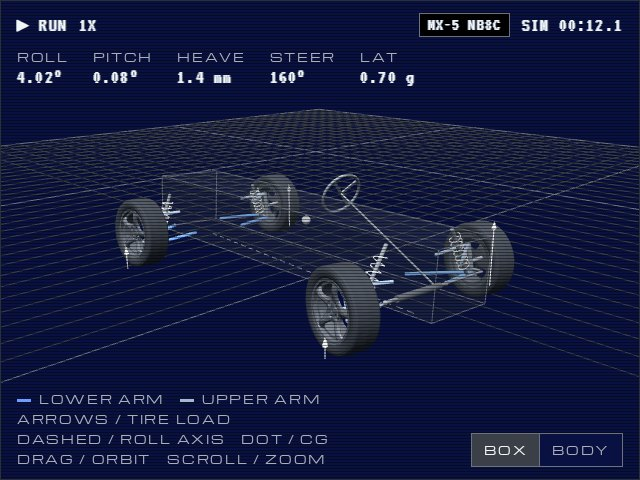
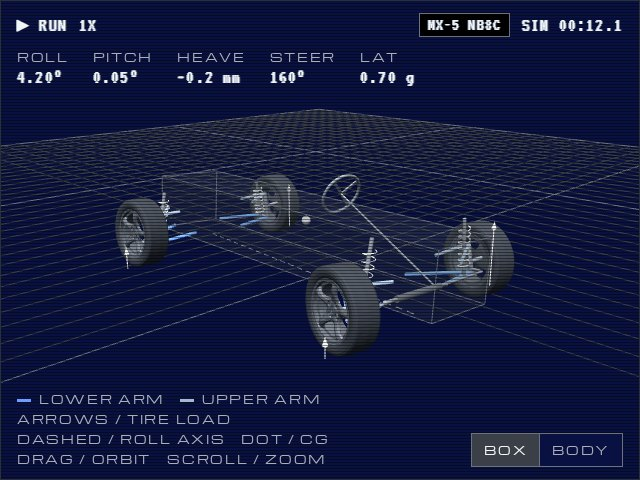
Shock towers from Mazda's body manual: 981 mm front, 984 mm rear
The body manual's underbody dimensions give the shock tower centers:
981 mm apart in front, 984 mm at the rear (the model had 699 and 879).
Rear: the shock's mount on the lower arm is 0.790 of the arm, from a
CAD model of the NA rear suspension (same arms and subframe as the
NB); with it the rear motion ratio comes out 0.732 with no fitting
(measured 0.721). Front: the mount on the lower arm is fitted again
to the 0.686 motion ratio (0.707 of the arm); the 273.5 mm drawing
measurement is dropped because with 981 mm it gives 0.776 and needs
136 mm of travel from a 119 mm shock. Top heights from the KYB
lengths: 640 mm front, 537 mm rear.

Stock: front wheel rate 15.8 -> 13.8 N/mm, ride frequency 1.25 ->
1.17 Hz, roll gradient 5.66 -> 5.91 deg/g.

Claude-Session: https://claude.ai/code/session_01XaYnxNh97FpaRMzgoeqeMp

diff --git a/index.html b/index.html
@@ -233,10 +233,11 @@
         <tr><td>Front pivot heights, lower / upper</td><td>171.8 / 360.6 mm</td><td class="u k">Fitted</td></tr>
         <tr><td>Front upright, ball joint to ball joint</td><td>217.2 mm: the measured heights, leaned to Mazda's 11°39′ kingpin</td><td class="u k">Measured + published</td></tr>
         <tr><td>Hub face position, kingpin offset, tie rod joints</td><td>See the Geometry tab</td><td class="u k">Fitted</td></tr>
-        <tr><td>Front shock, mount on the lower arm</td><td>273.5 mm from the arm's front inner pivot, on the line to the ball joint in top view: 0.810 of the arm's reach, 64 mm inboard of the ball joint</td><td class="u k">Measured</td></tr>
-        <tr><td>Front shock, top mounts</td><td>699 mm apart and 579 mm above ground (305 mm above the wheel center). Worked out from three things: the measured mount on the lower arm, the 0.686 motion ratio, and the replacement shock's length (KYB 341253: 530.1 mm fully extended, eye to stud shoulder, taken to top out at Mazda's 93 mm of droop). The shock is 469 mm long at ride height and leans 31.7°. My own estimates of 880 and 981 mm apart were not used: with the measured lower mount they give motion ratios of 0.753 and 0.776 and need 132 and 136 mm of shock travel.</td><td class="u k">Worked out</td></tr>
-        <tr><td>Rear shock, mounts</td><td>Tops 879 mm apart (as before, not measured) and 520 mm above ground; mount on the lower arm 0.829 of the arm from the inner pivot. Worked out from the 0.721 motion ratio and the replacement shock's length (KYB 341254: 453.9 mm fully extended, taken to top out at Mazda's 96 mm of droop). The shock is 384 mm long at ride height. Before, the model's rear shock was 42 mm too short.</td><td class="u k">Worked out</td></tr>
-        <tr><td>Shock stroke, OEM Showa</td><td>Front: body 342 mm, stroke 119 mm, 463 mm at full length. Rear: body 246 mm, stroke 131 mm, 378 mm. Mazda's wheel strokes use 119.9 mm (front) and 127.6 mm (rear) of shock travel in the model, so the strokes agree with both motion ratios.</td><td class="u k">Check</td></tr>
+        <tr><td>Shock towers, center to center</td><td>Front 981 mm, rear 984 mm (underbody projected dimensions)</td><td class="u k">Published, body manual</td></tr>
+        <tr><td>Shock top mount height</td><td>Front 640 mm above ground (366 mm above the wheel center), rear 537 mm. From the replacement shocks' lengths (KYB 341253: 530.1 mm fully extended; KYB 341254: 453.9 mm; eye to stud shoulder), each taken to top out at Mazda's droop of 93 / 96 mm. The body manual puts the front tower top 537 mm above its datum line, which then sits 103 mm above the ground.</td><td class="u k">Parts catalog</td></tr>
+        <tr><td>Rear shock, mount on the lower arm</td><td>0.790 of the arm from the inner pivot (310.9 of 393.7 mm), from a CAD model of the NA rear suspension whose arm lengths match the drawings to 0.1 mm. With it the rear motion ratio comes out 0.732 with no fitting (measured: 0.721).</td><td class="u k">CAD model</td></tr>
+        <tr><td>Front shock, mount on the lower arm</td><td>0.707 of the arm from the inner pivot (238 mm from the pivot line), fitted to the 0.686 motion ratio. Two direct measurements disagree with it and with each other: 273.5 mm from a drawing of the NB arm (that would give 0.776), and 222 mm, 30 mm above the arm line, in the CAD of the NA arm (0.650).</td><td class="u k">Fitted</td></tr>
+        <tr><td>Shock stroke, OEM Showa</td><td>Front: body 342 mm, stroke 119 mm, 463 mm at full length. Rear: body 246 mm, stroke 131 mm, 378 mm. Mazda's wheel strokes use 119.9 mm (front) and 129.8 mm (rear) of shock travel in the model, so the strokes agree with both motion ratios.</td><td class="u k">Check</td></tr>
         <tr><td>Rear upright, pivot height, hub face</td><td>Upright 240 mm between the arm mounts, lower pivot 186.4 mm above ground, hub face 137.9 mm from the kingpin axis, fitted to roll center 120 mm, track 1440 mm and motion ratio 0.721. A rough 230 mm estimate of the upright could not give that roll center with enough droop reach.</td><td class="u k">Fitted</td></tr>
         <tr><td>Front tie rod, outer joint</td><td>105 mm ahead of the kingpin axis and 4 mm outboard of it, fitted to the published full lock with the rack where it is below. A rough 135 mm measurement gave 27° / 25° of lock, so it was not used.</td><td class="u k">Fitted</td></tr>
         <tr><td>Steering rack, inner joints</td><td>50 mm ahead of the lower arm's front pivot and 650 mm apart, in line with the lower arm pivots (646 mm apart). By eye, not measured. Tie rods 340.8 mm.</td><td class="u k">Owner's estimate</td></tr>
@@ -293,7 +294,7 @@
       <li><div><b><i>1</i>Set up the car</b><span>Starter setups: <em>Stock</em> · <em>Coen's</em><br>Input car geometries<br><em>Export</em> or <em>Import</em> setups</span></div>
         <img src="intro-1.jpg?v=c79f25ca" width="640" height="480" alt="The Pause, Settle and Drive buttons, the Stock, Coen's and Session buttons, and the tabs"></li>
       <li><div><b><i>2</i>Steer and load it</b><span>Steering wheel slider · Forces sliders</span></div>
-        <img src="intro-2.jpg?v=e011fd9c" width="640" height="480" alt="The 3D view with the front wheels turned and the body leaning"></li>
+        <img src="intro-2.jpg?v=ed0dcb9e" width="640" height="480" alt="The 3D view with the front wheels turned and the body leaning"></li>
       <li><div><b><i>3</i>Test turn-in</b><span><em>Drive</em>: On<br>Assess turn-in reaction and grip limits of moving car</span></div>
         <img src="intro-3.jpg?v=7f1d9523" width="640" height="480" alt="The Drive button lit, and the Forces tab with the steady speed, steering wheel and Step steer controls"></li>
     </ol>
@@ -304,7 +305,7 @@
 <script src="three.min.js"></script>
 <script src="OrbitControls.js"></script>
 <script src="body-model.js?v=3635bb84"></script>
-<script src="core.js?v=db2c8320"></script>
+<script src="core.js?v=afff9266"></script>
 <script src="ui.js?v=b33cecb8"></script>
 </body>
 </html>

diff --git a/core.js b/core.js
@@ -16,16 +16,18 @@ const ET_FIT=0.040;      // the wheel offset the hub position was fitted with (M
      192.1 mm apart in height), rear arms (lower 393.7 mm, upper 212.7 mm).
    MEASURED by others: spring motion ratios 0.686 / 0.721; static stability factor 1.59 (NHTSA), CG 449 mm for the whole car.
    FITTED so the model reproduces the published numbers: front inner pivot positions, all pivot heights, rear upright (240 mm),
-     spindle and hub-face positions, tie rod outer joint (full lock 38° / 33°), rack height (least bump steer), where the front shock tops are
-     across the car (698.6 mm apart, from the 0.686 motion ratio with the measured mount on the lower arm), and the rear shock's mount
-     on the lower arm (0.829 of the arm, from the 0.721 motion ratio with the tops 879.4 mm apart).
-   MEASURED on the lower arm: the front shock bolts on 273.5 mm from the arm's front inner pivot, on the line to the ball joint in top
-     view (0.8103 of the arm's reach).
-   FROM THE SHOCKS: top mount heights 579.0 mm front and 519.9 mm rear. The replacement shocks are 530.1 mm (KYB 341253, front) and
-     453.9 mm (KYB 341254, rear) long fully extended, eye to stud shoulder, and each is taken to top out at Mazda's droop (93 / 96 mm).
-     The OEM Showa shocks have 119 mm (front) and 131 mm (rear) of stroke; Mazda's wheel strokes use 119.9 and 127.6 mm of that in
-     the model, which is an independent check on the two motion ratios. Front tops 880 or 981 mm apart (owner's estimates) were not
-     used: with the measured lower mount they give motion ratios of 0.753 and 0.776 and need 132 and 136 mm of shock travel.
+     spindle and hub-face positions, tie rod outer joint (full lock 38° / 33°), rack height (least bump steer), and the front shock's
+     mount on the lower arm (0.707 of the arm, 238 mm from the pivot line, from the 0.686 motion ratio).
+   SHOCK TOWERS, from Mazda's body manual (underbody projected dimensions): front tower centers 981 mm apart, rear 984 mm.
+   SHOCKS: top mount heights 640.3 mm front and 536.8 mm rear, from the replacement shocks' lengths: 530.1 mm (KYB 341253, front) and
+     453.9 mm (KYB 341254, rear) fully extended, eye to stud shoulder, each taken to top out at Mazda's droop (93 / 96 mm).
+     The OEM Showa shocks have 119 mm (front) and 131 mm (rear) of stroke; Mazda's wheel strokes use 119.9 and 129.8 mm of that in
+     the model, which checks both motion ratios independently.
+   FROM A CAD MODEL of the NA suspension (third party, part numbers NA01-...): the rear shock bolts to the lower arm 0.7897 of the
+     way out (310.9 of 393.7 mm). With that, the tower spacing and the shock length, the rear motion ratio comes out 0.732 without
+     any fitting (measured: 0.721). The same CAD has the NA front shock bolt 222 mm from the pivot line and 30 mm above the arm
+     line; a drawing measurement of 273.5 mm for the NB arm was not used (it gives a motion ratio of 0.776 and needs 136 mm of
+     travel from a 119 mm shock).
    OWNER'S ESTIMATE, not measured: the rack's inner joints are 50 mm ahead of the lower arm's front pivot and 650 mm apart, in line
      with the lower arm pivots (646 mm apart).
    ESTIMATES: unsprung mass, roll, pitch and yaw inertia, tire rate, anti-roll bar rates, front weight share, and every tire grip
@@ -47,10 +49,10 @@ function stockCar(){
     steer:{c:0.0465,rmax:0.0605,speed:60/3.6,link:0,cut:0,cutL:0.020},
     ax:[
       {g:{Ll:0.3366,Lu:0.25,Lk:0.2172,yli:0.3232,zli:0.1718,yui:0.368,zui:0.3606,xlf:-0.0258,xlr:-0.3508,xuf:0.0881,xur:-0.1319,ee:0.13,hsp:0.0805,hf:0.1057,xk:0.0086,rimD:0.381,rimW:0.1524,et:0.040,sp:0,tw:0.195,ar:0.50,pk:180000,R:0.274,tmu:0.95,tls:6e-5,tca:0.20,tcg:0.012,tgo:2,inc:11.712479,cadj:0,caster:5.6667,toe:0.15,kt:185000,
-          xto:0.1011,yto:0.6567,zto:0.215,xti:0.0242,yti:0.325,zti:0.2001,fMount:0.8103,ydm:0.3493,zdm:0.579,bump:0.082,droop:0.093},
+          xto:0.1011,yto:0.6567,zto:0.215,xti:0.0242,yti:0.325,zti:0.2001,fMount:0.707,ydm:0.4905,zdm:0.6403,bump:0.082,droop:0.093},
        s:{k:28440,arb:8000,cbl:3430,cbh:1080,vkb:0.1,crl:6080,crh:2600,vkr:0.1}},
       {g:{Ll:0.3937,Lu:0.2127,Lk:0.24,yli:0.2439,zli:0.1864,yui:0.3873,zui:0.3785,xlf:0.0982,xlr:-0.2222,xuf:0.0657,xur:-0.0989,ee:0.132,hsp:0.1074,hf:0.1379,xk:0,rimD:0.381,rimW:0.1524,et:0.040,sp:0,tw:0.195,ar:0.50,pk:180000,R:0.274,tmu:0.95,tls:6e-5,tca:0.20,tcg:0.012,tgo:2,inc:8.046475,cadj:0,caster:0,toe:0.15,kt:185000,
-          fMount:0.8287,ydm:0.4397,zdm:0.5199,bump:0.080,droop:0.096},
+          fMount:0.7897,ydm:0.492,zdm:0.5368,bump:0.080,droop:0.096},
        s:{k:20590,arb:1400,cbl:3430,cbh:2060,vkb:0.1,crl:6080,crh:2600,vkr:0.1}}
     ],
     dh:[0,0,0,0],

diff --git a/README.md b/README.md
@@ -50,7 +50,7 @@ Both are a Mazda MX-5 NB 1.8 (NB8C). The **Stock** button loads the car as Mazda
 | Measured by others | Motion ratios 0.686 / 0.721 (owner measurement), CG height 449 mm (from NHTSA's static stability factor 1.59) |
 | Measured on the parts | Front arms: lower 336.6 mm from the pivot line to the ball joint, inner pivots 325 mm apart, ball joint 25 mm ahead of the front pivot; upper 250 mm, inner pivots 220 mm apart. Front knuckle: upper ball joint 120.7 mm above the axle, lower ball joint 92.1 mm below it and 88.9 mm in from the wheel face. Rear chassis pivots: lower 243.9 mm and upper 387.3 mm from the centerline, upper 192.1 mm above lower, lower pivots 320.4 mm apart front to back, upper 164.5 mm. Rear arms: lower 393.7 mm, upper 212.7 mm. Rear upright: the axle sits 45 % of the way up from the lower arm mount to the upper one (photo) |
 | NA drawing values already in this project | Upper pivots 183 mm above lower (188.8 mm on the NB). The drawing's pivot spacings (656 / 756 mm) and 350 mm lower arm are no longer used |
-| Fitted so the model reproduces the numbers above | Front: pivots 646 / 736 mm apart and 171.8 / 360.6 mm above ground, upright 217.2 mm (the measured heights leaned to Mazda's 11°39′ kingpin), spindle and hub-face positions, tie rod outer joint 105 mm ahead of the kingpin axis and 4 mm outboard of it (full lock 38° / 33°; a rough 135 mm measurement gave 27° / 25° and was not used), rack height 200.1 mm (least bump steer: 0.05° of toe-out at 30 mm of bump is left), where the front shock tops sit across the car (699 mm apart, from the 0.686 motion ratio). The rack's inner joints are an owner's estimate, not a measurement: 50 mm ahead of the lower arm's front pivot and 650 mm apart, in line with the lower arm pivots (646 mm apart). The front shock's mount on the lower arm is measured: 273.5 mm from the arm's front inner pivot, on the line to the ball joint in top view (0.810 of the arm's reach). The top mounts are worked out from that, the 0.686 motion ratio and the replacement shock's length (KYB 341253: 530.1 mm fully extended, eye to stud shoulder, taken to top out at Mazda's 93 mm of droop): 699 mm apart and 579 mm above ground. Owner's estimates of 880 and 981 mm between the tops were not used, because with the measured lower mount they give motion ratios of 0.753 and 0.776 and need 132 and 136 mm of travel from a shock that has 119 mm (OEM Showa: front body 342 mm, stroke 119 mm; rear body 246 mm, stroke 131 mm). Mazda's wheel strokes use 119.9 mm (front) and 127.6 mm (rear) of shock travel in the model, which checks both motion ratios. Rear: upright 240 mm (a rough 230 mm estimate could not give the roll center with enough droop reach), lower pivot 186.4 mm above ground, hub face 137.9 mm, fitted to the 120 mm roll center and 1440 mm track; shock mount 0.829 along the lower arm and top mount 520 mm above ground (tops 879 mm apart, not measured), from the 0.721 motion ratio and the replacement shock's length (KYB 341254: 453.9 mm fully extended at Mazda's 96 mm of droop) |
+| Fitted so the model reproduces the numbers above | Front: pivots 646 / 736 mm apart and 171.8 / 360.6 mm above ground, upright 217.2 mm (the measured heights leaned to Mazda's 11°39′ kingpin), spindle and hub-face positions, tie rod outer joint 105 mm ahead of the kingpin axis and 4 mm outboard of it (full lock 38° / 33°; a rough 135 mm measurement gave 27° / 25° and was not used), rack height 200.1 mm (least bump steer: 0.05° of toe-out at 30 mm of bump is left), and the front shock's mount on the lower arm (0.707 of the arm, 238 mm from the pivot line, from the 0.686 motion ratio). The rack's inner joints are an owner's estimate, not a measurement: 50 mm ahead of the lower arm's front pivot and 650 mm apart, in line with the lower arm pivots (646 mm apart). The shock towers are from Mazda's body manual (underbody projected dimensions): centers 981 mm apart in front and 984 mm at the rear. The top mount heights, 640 mm (front) and 537 mm (rear) above ground, come from the replacement shocks' lengths (KYB 341253: 530.1 mm fully extended; KYB 341254: 453.9 mm; eye to stud shoulder), each taken to top out at Mazda's droop of 93 / 96 mm. The OEM Showa shocks have 119 mm (front) and 131 mm (rear) of stroke, and Mazda's wheel strokes use 119.9 and 129.8 mm of that in the model, which checks both motion ratios. Two direct measurements of the front shock bolt were not used: 273.5 mm from a drawing of the NB arm (motion ratio 0.776, and 136 mm of travel from a 119 mm shock) and 222 mm, 30 mm above the arm line, in a CAD model of the NA arm (0.650). Rear: upright 240 mm (a rough 230 mm estimate could not give the roll center with enough droop reach), lower pivot 186.4 mm above ground, hub face 137.9 mm, fitted to the 120 mm roll center and 1440 mm track. The rear shock bolts to the lower arm 0.790 of the way out (310.9 of 393.7 mm), taken from a third-party CAD model of the NA rear suspension whose arm lengths match the drawings to 0.1 mm; with it the rear motion ratio comes out 0.732 with no fitting (measured: 0.721) |
 | Estimates | Unsprung mass 32 kg per corner, front weight share 52 %, inertias (yaw 1400 kg·m²), tire rate 185 N/mm, anti-roll bar rates 8.0 / 1.4 N/mm, and every tire grip number (typical street tires on Stock, typical sporty street tires on Coen's) |
 
 Checks that were not used in the fit: with the lower pivot 5.8 mm higher (the NA position) the model's front roll center is 62.5 mm (Mazda's NA figure: 61 mm), and with the NA's 4°26′ caster the trail is 11.6 mm (Mazda: 11.6 mm). The turning radius at the outer front tire is 4.49 m (Mazda: 4.6 m).
